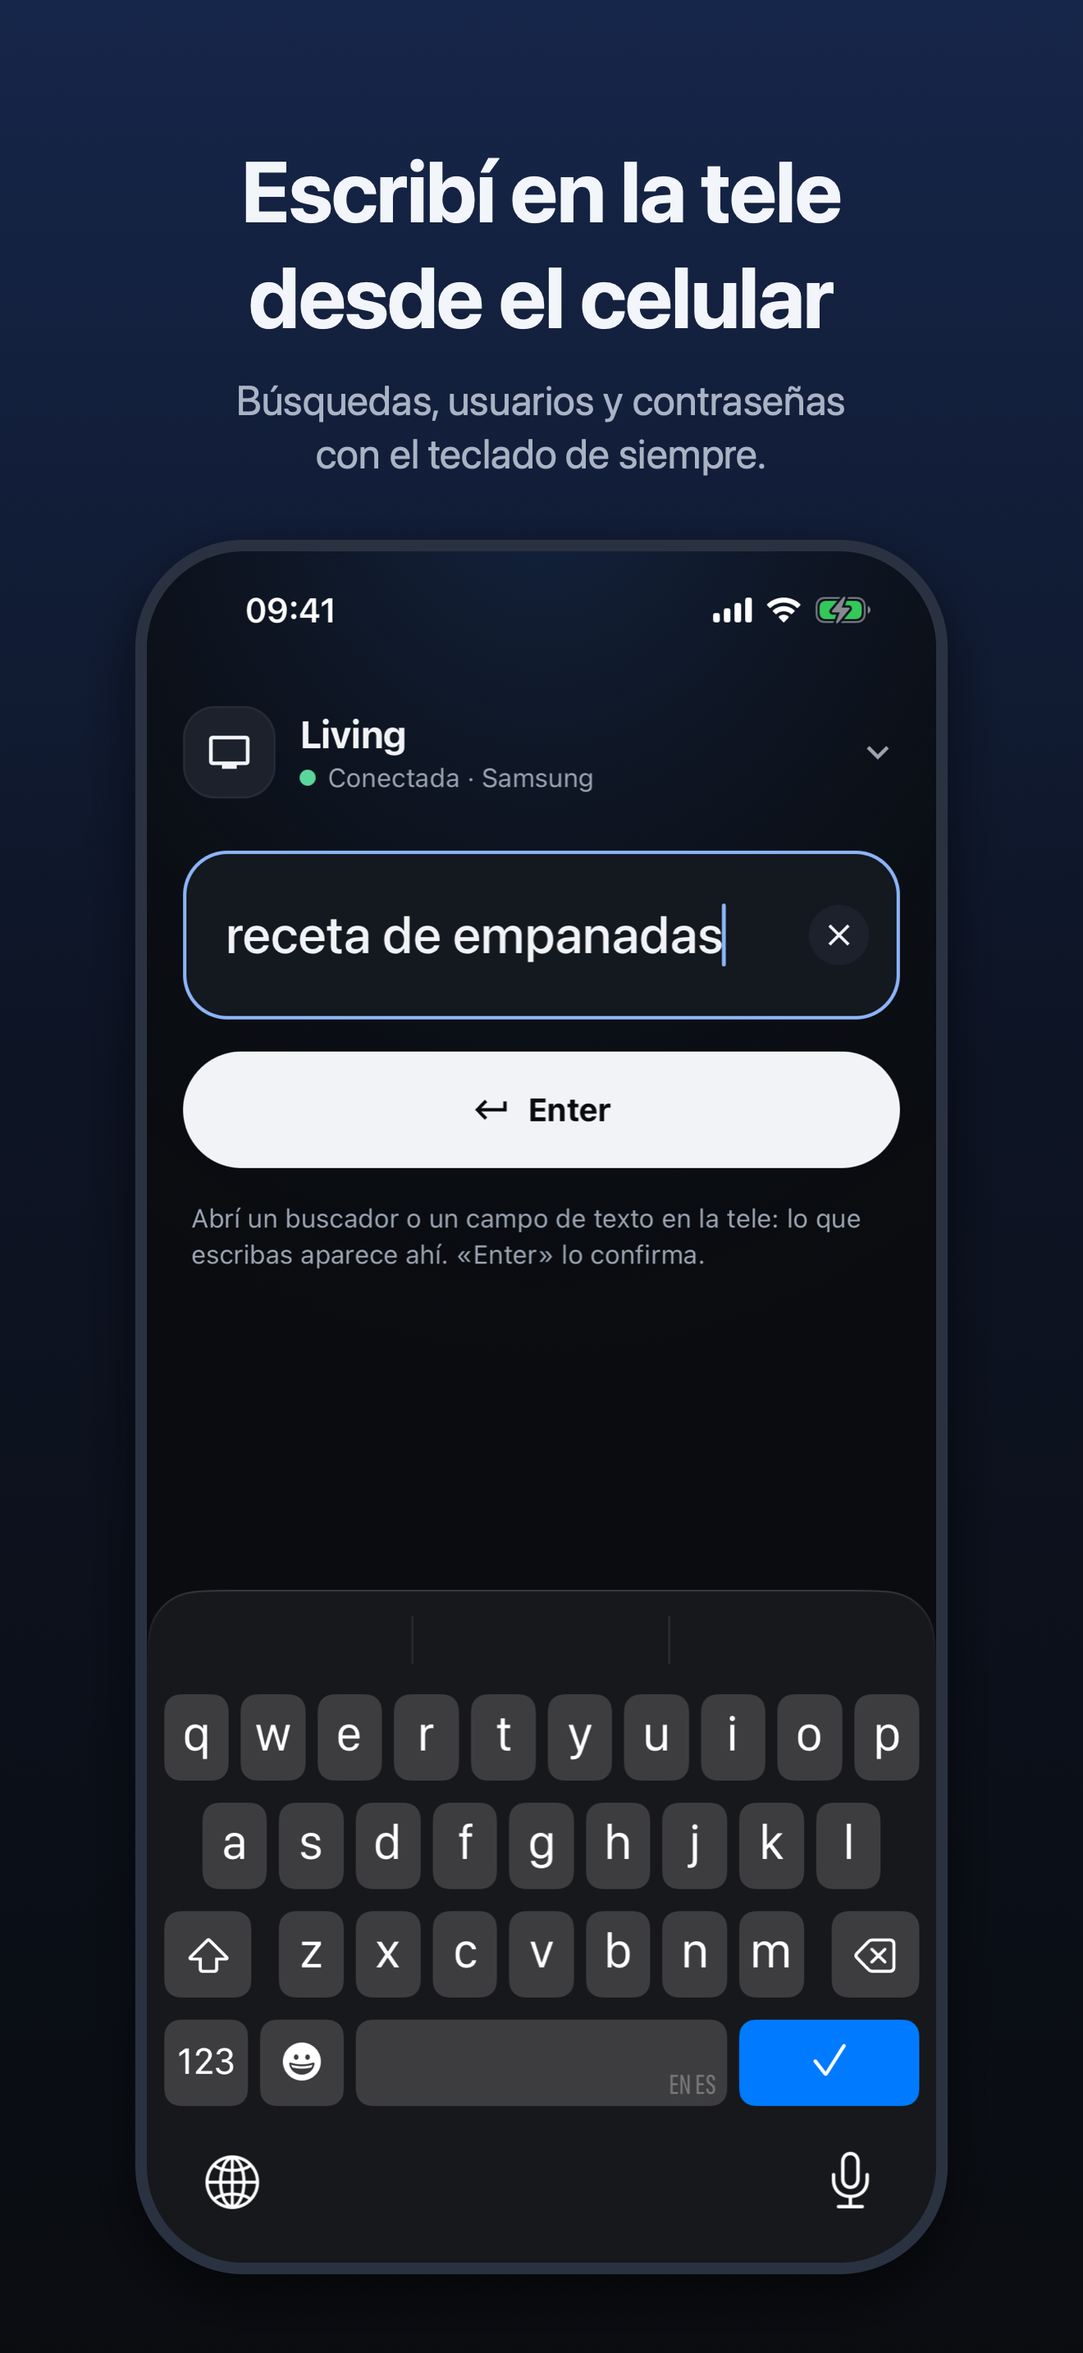
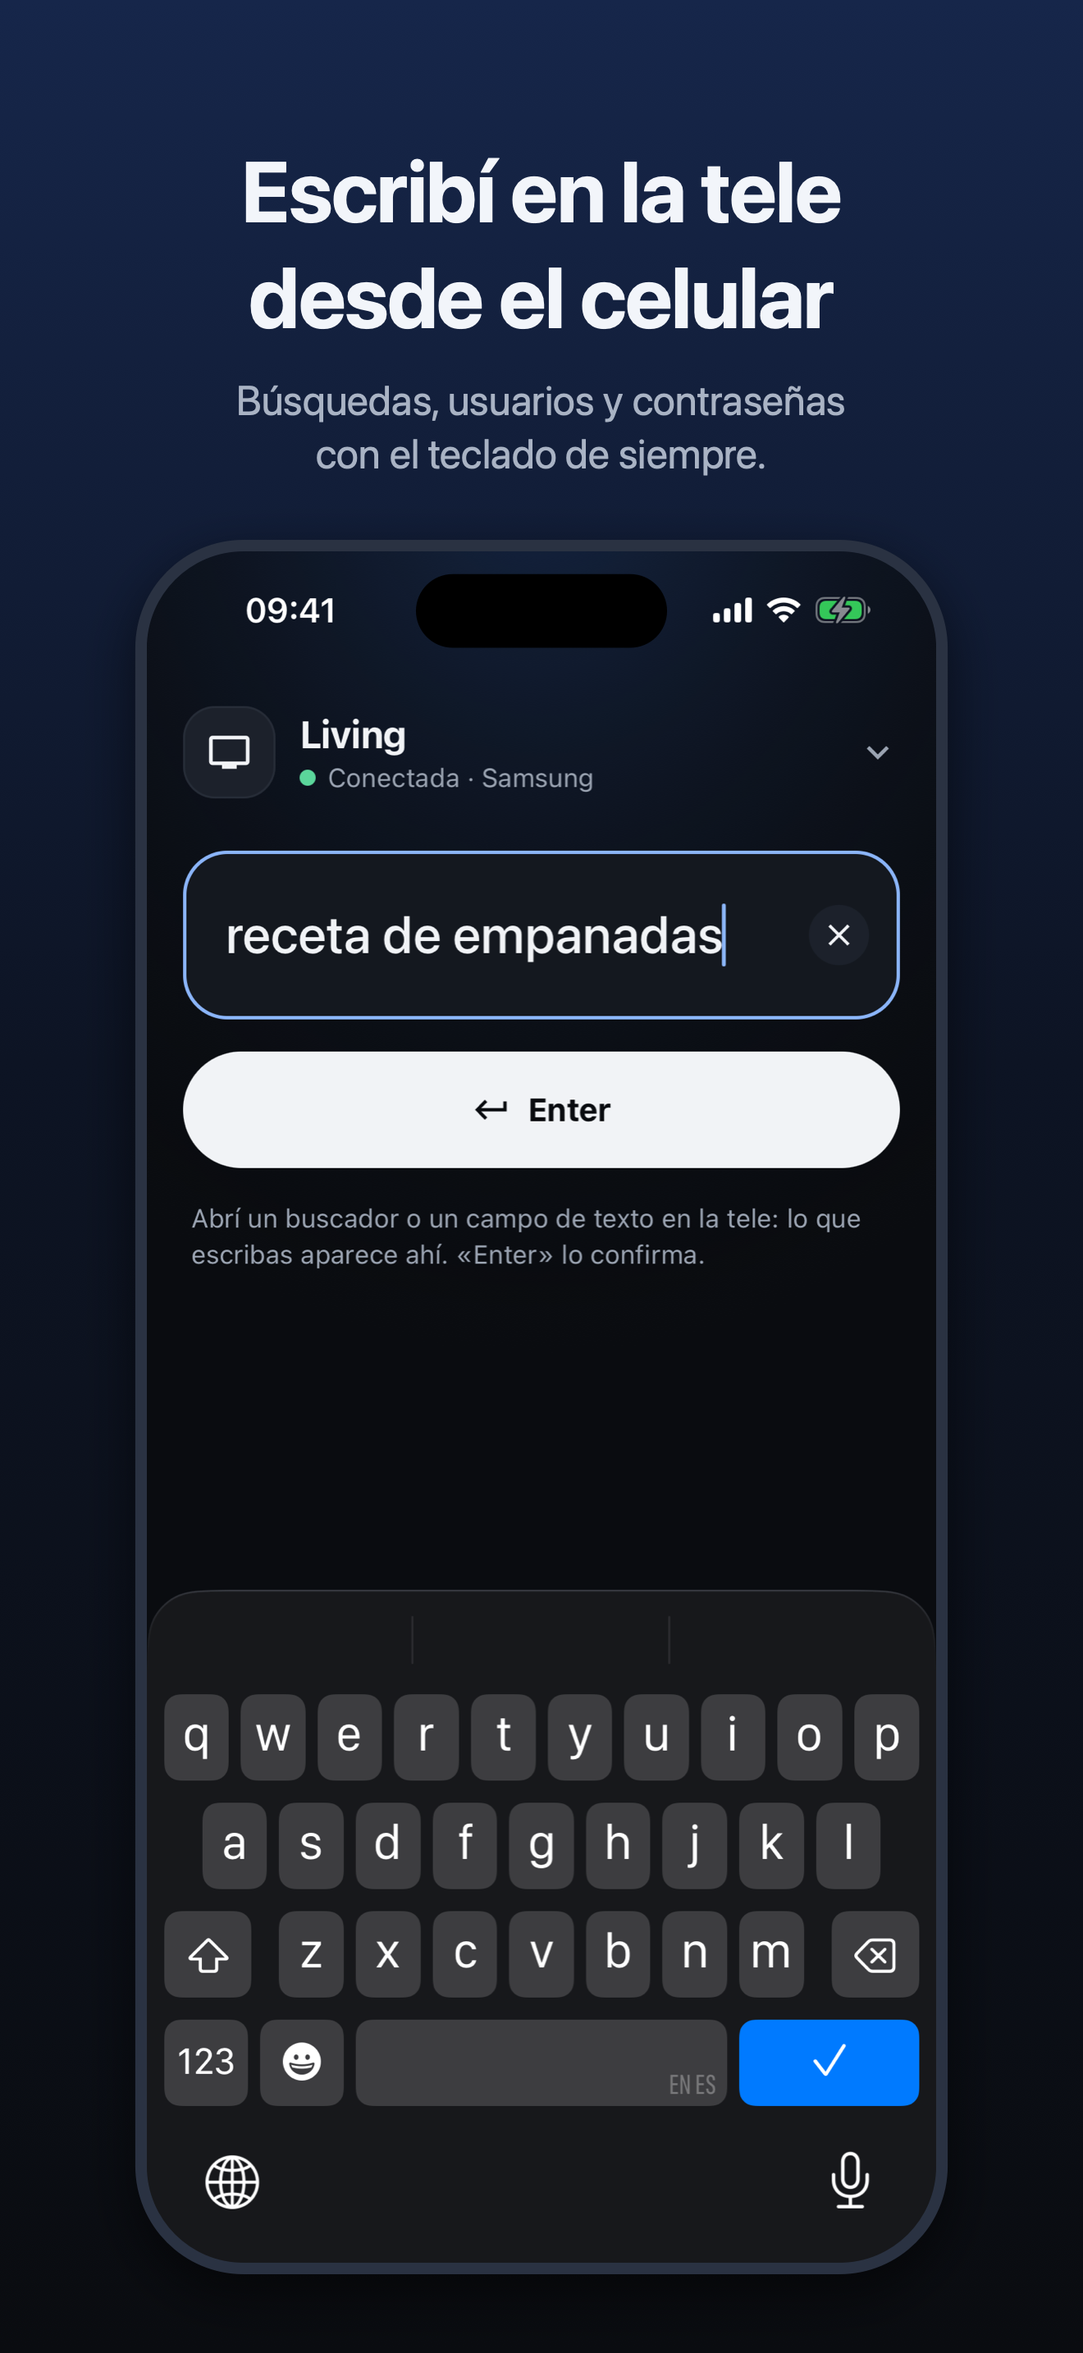
Teclado TV: lista para la revisión de Apple
- Primera pantalla: campo para escribir la IP de la tele (antes solo estaba en Avanzado, después de elegir una tele).
- Enlace a la política de privacidad dentro de la app.
- iPhone: aviso del permiso «Red local» con botón a Ajustes, y las apps del selector con iniciales en vez de logos.
- La hoja «Tu tele» sube con el teclado; el campo de IP se confirma con la tecla Ir.
- iOS en español (CFBundleLocalizations) y sin servicios Bonjour que no se usan.
- Ficha, notas para Apple, ayuda y privacidad corregidas para que coincidan con la app.

Changed region(s): [[0.3727, 0.2172, 0.6212, 0.2793]]

diff --git a/src/ui/TvSheet.tsx b/src/ui/TvSheet.tsx
@@ -1,18 +1,18 @@
 import { useState } from 'react';
-import { ActivityIndicator, Platform, Pressable, StyleSheet, Text, TextInput, View } from 'react-native';
+import { Pressable, StyleSheet, Text, View } from 'react-native';
 
 import type { TvState } from '../tv/TvController';
 import { tv } from '../tv/useTv';
 import { Icon } from './Icon';
+import { ManualAddress } from './ManualAddress';
+import { PrivacyLink } from './PrivacyLink';
 import { Sheet } from './Sheet';
 import { TvList } from './TvList';
-import { colors, radius, type } from './theme';
+import { colors } from './theme';
 
 /** "Tu tele": the TVs on the Wi-Fi, plus a manual address and re-pairing under "Avanzado". */
 export function TvSheet({ visible, state, onClose }: { visible: boolean; state: TvState; onClose: () => void }) {
   const [advanced, setAdvanced] = useState(false);
-  const [address, setAddress] = useState('');
-  const [checking, setChecking] = useState(false);
 
   return (
     <Sheet visible={visible} title="Tu tele" subtitle="Teles encontradas en tu Wi-Fi" onClose={onClose}>
@@ -32,33 +32,7 @@ export function TvSheet({ visible, state, onClose }: { visible: boolean; state: 
 
       {advanced ? (
         <View style={styles.advanced}>
-          <Text style={styles.label}>Conectar por dirección (si la tele no aparece)</Text>
-          <View style={styles.addressRow}>
-            <TextInput
-              style={styles.field}
-              value={address}
-              onChangeText={setAddress}
-              placeholder={state.host || '192.168.0.10'}
-              placeholderTextColor={colors.faint}
-              autoCapitalize="none"
-              autoCorrect={false}
-              keyboardType={Platform.OS === 'android' ? 'visible-password' : 'numbers-and-punctuation'}
-              accessibilityLabel="Dirección de la tele"
-            />
-            <Pressable
-              onPress={async () => {
-                if (!address.trim() || checking) return;
-                setChecking(true);
-                await tv.chooseAddress(address);
-                setChecking(false);
-                onClose();
-              }}
-              style={({ pressed }) => [styles.smallButton, pressed && { opacity: 0.8 }]}
-              accessibilityRole="button"
-            >
-              {checking ? <ActivityIndicator color={colors.onFocus} /> : <Text style={styles.smallButtonText}>Conectar</Text>}
-            </Pressable>
-          </View>
+          <ManualAddress state={state} label="Conectar por dirección (si la tele no aparece)" onDone={onClose} />
           {state.host ? (
             <Pressable
               onPress={() => {
@@ -71,6 +45,7 @@ export function TvSheet({ visible, state, onClose }: { visible: boolean; state: 
               <Text style={styles.linkText}>Volver a vincular con {state.tvName}</Text>
             </Pressable>
           ) : null}
+          <PrivacyLink />
         </View>
       ) : null}
     </Sheet>
@@ -81,26 +56,6 @@ const styles = StyleSheet.create({
   advancedToggle: { flexDirection: 'row', alignItems: 'center', gap: 4, alignSelf: 'flex-start' },
   advancedText: { color: colors.muted, fontSize: 15, fontWeight: '600' },
   advanced: { gap: 10 },
-  label: { ...type.small, color: colors.muted },
-  addressRow: { flexDirection: 'row', gap: 10 },
-  field: {
-    flex: 1,
-    backgroundColor: colors.surfaceRaised,
-    borderColor: colors.border,
-    borderWidth: 1,
-    borderRadius: radius.sm,
-    color: colors.text,
-    fontSize: 17,
-    paddingHorizontal: 14,
-    paddingVertical: 12,
-  },
-  smallButton: {
-    backgroundColor: colors.focus,
-    borderRadius: radius.sm,
-    paddingHorizontal: 16,
-    justifyContent: 'center',
-  },
-  smallButtonText: { color: colors.onFocus, fontSize: 15, fontWeight: '700' },
   link: { paddingVertical: 4 },
   linkText: { color: colors.accent, fontSize: 15, fontWeight: '600' },
 });

diff --git a/docs/privacidad.html b/docs/privacidad.html
@@ -21,10 +21,11 @@
   <h2>Qué se guarda en tu celular</h2>
   <p>Solo en tu celular, para no tener que configurar todo cada vez:</p>
   <ul>
-    <li>La tele elegida: su nombre, marca y dirección en tu red.</li>
-    <li>Los datos de vinculación que entrega la tele (por ejemplo, un código de acceso o un certificado del celular), para que no te pida vincular de nuevo.</li>
+    <li>La tele elegida: su nombre, marca, modelo, un identificador de la tele y su dirección en tu red.</li>
+    <li>Los datos de vinculación que entrega la tele (por ejemplo, un código de acceso), para que no te pida vincular de nuevo.</li>
+    <li>Para las teles Android TV / Google TV: un certificado propio del celular, creado en el celular, con el que la tele lo reconoce.</li>
   </ul>
-  <p>Estos datos no salen del celular salvo para conectarse a tu tele. Se borran al desinstalar la app.</p>
+  <p>Estos datos no salen del celular salvo para conectarse a tu tele. Para borrarlos, usá <em>Avanzado → Volver a vincular</em> o desinstalá la app. En iPhone, el certificado queda guardado en el llavero de iOS aunque desinstales la app, hasta que uses <em>Volver a vincular</em>.</p>
 
   <h2>Permisos</h2>
   <ul>
@@ -43,7 +44,7 @@
     <h2>Privacy policy (English)</h2>
     <p><strong>Teclado TV does not collect, store on servers, or share any personal data.</strong> It has no accounts, ads, analytics or tracking.</p>
     <p>The app connects directly to your TV over your home Wi-Fi (local network) to send it the text you type, and searches that network for TVs (Bonjour/mDNS, SSDP and connections to each brand's ports). This traffic goes from the phone to the TV only, never through our servers or any third party.</p>
-    <p>Stored only on your phone: the chosen TV (name, brand, local address) and the pairing data the TV issues (an access token or the phone's certificate), so you don't have to pair again. They are deleted when you uninstall the app.</p>
+    <p>Stored only on your phone: the chosen TV (name, brand, model, a TV identifier and its local address), the pairing data the TV issues (an access token), and for Android TV / Google TV a certificate created on the phone, so you don't have to pair again. To delete them use Avanzado → Volver a vincular, or uninstall the app; on iPhone the certificate stays in the iOS Keychain after uninstalling, until you use Volver a vincular.</p>
     <p>Permissions: local network (iPhone) and Wi-Fi/network state (Android), only to find and connect to the TV. No location, contacts, camera, microphone or photos.</p>
     <p>Contact: <a href="https://github.com/PolCarva/tele-teclado/issues">github.com/PolCarva/tele-teclado/issues</a>.</p>
   </section>

diff --git a/src/ui/ManualAddress.tsx b/src/ui/ManualAddress.tsx
@@ -1,0 +1,73 @@
+import { useState } from 'react';
+import { ActivityIndicator, Platform, Pressable, StyleSheet, Text, TextInput, View } from 'react-native';
+
+import type { TvState } from '../tv/TvController';
+import { tv } from '../tv/useTv';
+import { colors, radius, type } from './theme';
+
+/** "Connect by address": for a TV the search doesn't find. The app works out the brand. */
+export function ManualAddress({ state, label, onDone }: { state: TvState; label: string; onDone?: () => void }) {
+  const [address, setAddress] = useState('');
+  const [checking, setChecking] = useState(false);
+
+  const connect = async () => {
+    if (!address.trim() || checking) return;
+    setChecking(true);
+    await tv.chooseAddress(address);
+    setChecking(false);
+    onDone?.();
+  };
+
+  return (
+    <View style={styles.wrap}>
+      <Text style={styles.label}>{label}</Text>
+      <View style={styles.row}>
+        <TextInput
+          style={styles.field}
+          value={address}
+          onChangeText={setAddress}
+          onSubmitEditing={() => void connect()}
+          returnKeyType="go"
+          placeholder={state.host || '192.168.0.10'}
+          placeholderTextColor={colors.faint}
+          autoCapitalize="none"
+          autoCorrect={false}
+          keyboardType={Platform.OS === 'android' ? 'visible-password' : 'numbers-and-punctuation'}
+          accessibilityLabel="Dirección IP de la tele"
+        />
+        <Pressable
+          onPress={() => void connect()}
+          style={({ pressed }) => [styles.button, pressed && { opacity: 0.8 }]}
+          accessibilityRole="button"
+          accessibilityLabel="Conectar a esa dirección"
+        >
+          {checking ? <ActivityIndicator color={colors.onFocus} /> : <Text style={styles.buttonText}>Conectar</Text>}
+        </Pressable>
+      </View>
+    </View>
+  );
+}
+
+const styles = StyleSheet.create({
+  wrap: { gap: 10 },
+  label: { ...type.small, color: colors.muted },
+  row: { flexDirection: 'row', gap: 10 },
+  field: {
+    flex: 1,
+    backgroundColor: colors.surfaceRaised,
+    borderColor: colors.border,
+    borderWidth: 1,
+    borderRadius: radius.sm,
+    color: colors.text,
+    fontSize: 17,
+    paddingHorizontal: 14,
+    paddingVertical: 12,
+  },
+  button: {
+    backgroundColor: colors.focus,
+    borderRadius: radius.sm,
+    paddingHorizontal: 16,
+    justifyContent: 'center',
+  },
+  buttonText: { color: colors.onFocus, fontSize: 15, fontWeight: '700' },
+});

diff --git a/src/ui/TvList.tsx b/src/ui/TvList.tsx
@@ -1,4 +1,4 @@
-import { ActivityIndicator, Pressable, StyleSheet, Text, View } from 'react-native';
+import { ActivityIndicator, Linking, Platform, Pressable, StyleSheet, Text, View } from 'react-native';
 
 import { driverFor, type TvInfo } from '../brands';
 import type { TvState } from '../tv/TvController';
@@ -67,14 +67,23 @@ export function TvList({
           No encontré teles. Fijate que estén prendidas y conectadas a la misma Wi-Fi que el celular. Algunas
           teles tienen que tener activado el control desde el celular o la red (por ejemplo, Roku: «Control por apps
           móviles»; Sony: «Control remoto IP»).
+          {Platform.OS === 'ios' ? ' En iPhone, la app también necesita el permiso «Red local».' : ''}
         </Text>
       ) : null}
 
       {!scanning ? (
-        <Pressable onPress={onRescan} style={styles.rescan} accessibilityRole="button">
-          <Icon name="refresh" size={18} color={colors.accent} />
-          <Text style={styles.rescanText}>Buscar de nuevo</Text>
-        </Pressable>
+        <View style={styles.actions}>
+          <Pressable onPress={onRescan} style={styles.rescan} accessibilityRole="button">
+            <Icon name="refresh" size={18} color={colors.accent} />
+            <Text style={styles.rescanText}>Buscar de nuevo</Text>
+          </Pressable>
+          {Platform.OS === 'ios' && list.length === 0 ? (
+            // iOS asks for "Local Network" only once; if it was denied, the switch is in the app's Settings.
+            <Pressable onPress={() => void Linking.openSettings()} style={styles.rescan} accessibilityRole="button">
+              <Text style={styles.rescanText}>Abrir Ajustes</Text>
+            </Pressable>
+          ) : null}
+        </View>
       ) : null}
     </View>
   );
@@ -109,6 +118,7 @@ const styles = StyleSheet.create({
   badge: { fontSize: 13, fontWeight: '600' },
   status: { flexDirection: 'row', alignItems: 'center', gap: 10, paddingVertical: 6 },
   statusText: { ...type.small, color: colors.muted },
+  actions: { flexDirection: 'row', alignItems: 'center', gap: 24 },
   rescan: { flexDirection: 'row', alignItems: 'center', gap: 6, alignSelf: 'flex-start', paddingVertical: 6 },
   rescanText: { color: colors.accent, fontSize: 15, fontWeight: '600' },
 });

diff --git a/App.tsx b/App.tsx
@@ -7,7 +7,9 @@ import type { TvState } from './src/tv/TvController';
 import { tv, useTv } from './src/tv/useTv';
 import { Backdrop } from './src/ui/Backdrop';
 import { Icon } from './src/ui/Icon';
+import { ManualAddress } from './src/ui/ManualAddress';
 import { PairingView } from './src/ui/PairingView';
+import { PrivacyLink } from './src/ui/PrivacyLink';
 import { TvList } from './src/ui/TvList';
 import { TvSheet } from './src/ui/TvSheet';
 import { TypingView } from './src/ui/TypingView';
@@ -85,16 +87,23 @@ function Header({ state, onPress }: { state: TvState; onPress: () => void }) {
   );
 }
 
-/** First run: pick the TV from the ones on the Wi-Fi. */
+/** First run: pick the TV from the ones on the Wi-Fi, or type its address. */
 function ChooseTv({ state }: { state: TvState }) {
+  const found = state.scan.tvs.length > 0;
   return (
     <View style={styles.choose}>
       <Text style={styles.brand}>Teclado TV</Text>
       <View style={styles.chooseTitles}>
         <Text style={styles.title}>Elegí tu tele</Text>
-        <Text style={styles.subtitle}>Estas son las teles que encontré en tu Wi-Fi.</Text>
+        <Text style={styles.subtitle}>
+          {found
+            ? 'Estas son las teles que encontré en tu Wi-Fi.'
+            : 'Escribí en la tele con el teclado del celular. Busco tu tele en la Wi-Fi: Android TV / Google TV, Samsung, LG, Roku, Sony o Panasonic.'}
+        </Text>
       </View>
-      <TvList state={state} onChoose={(found) => tv.chooseTv(found)} onRescan={() => void tv.scanTvs({ deep: true })} />
+      <TvList state={state} onChoose={(chosen) => tv.chooseTv(chosen)} onRescan={() => void tv.scanTvs({ deep: true })} />
+      <ManualAddress state={state} label="¿No aparece? Escribí la dirección IP de la tele (la ves en su configuración de red)." />
+      <PrivacyLink />
     </View>
   );
 }

diff --git a/src/ui/AppIcon.tsx b/src/ui/AppIcon.tsx
@@ -1,4 +1,4 @@
-import { StyleSheet, Text, View } from 'react-native';
+import { Platform, StyleSheet, Text, View } from 'react-native';
 import Svg, { Path } from 'react-native-svg';
 
 import { ICON_PATHS } from '../tv/appIcons';
@@ -19,9 +19,22 @@ const ICONS: Record<TargetId, IconStyle> = {
   enter: { bg: '#2A303B', fg: '#F2F4F7', path: ENTER_PATH },
 };
 
-/** Rounded square with the app's logo, in the app's colors. */
+// The App Store build shows neutral initials instead of the apps' logos and colors: App Review
+// can flag third-party logos (guideline 5.2.1). The names next to them still say which app it is.
+const NEUTRAL = { bg: '#2A303B', fg: '#F2F4F7' };
+const INITIALS: Record<TargetId, IconStyle> = {
+  youtube: { ...NEUTRAL, text: 'Y' },
+  netflix: { ...NEUTRAL, text: 'N' },
+  prime: { ...NEUTRAL, text: 'P' },
+  disney: { ...NEUTRAL, text: 'D' },
+  max: { ...NEUTRAL, text: 'M' },
+  stremio: { ...NEUTRAL, text: 'S' },
+  enter: ICONS.enter,
+};
+
+/** Rounded square with the app's logo, in the app's colors (initials on iPhone). */
 export function AppIcon({ id, size = 36 }: { id: TargetId; size?: number }) {
-  const icon = ICONS[id];
+  const icon = (Platform.OS === 'ios' ? INITIALS : ICONS)[id];
   const glyph = size * (icon.scale ?? 0.6);
   return (
     <View

diff --git a/docs/index.html b/docs/index.html
@@ -34,7 +34,8 @@
 
   <h2>Si algo no anda</h2>
   <ul>
-    <li><strong>No encuentra la tele:</strong> fijate que esté prendida y en la misma Wi-Fi. Tocá el nombre de la tele arriba y <em>Buscar de nuevo</em>. En <em>Avanzado</em> podés poner la dirección IP de la tele a mano.</li>
+    <li><strong>No encuentra la tele:</strong> fijate que esté prendida y en la misma Wi-Fi, y tocá <em>Buscar de nuevo</em>. Si igual no aparece, escribí la dirección IP de la tele en el campo de abajo de la lista (la ves en la configuración de red de la tele). Si ya elegiste una tele, tocá su nombre arriba: en <em>Avanzado</em> podés poner otra dirección.</li>
+    <li><strong>iPhone:</strong> la app necesita el permiso <em>Red local</em>. Si lo negaste, activalo en Ajustes → Teclado TV.</li>
     <li><strong>No aparece el texto:</strong> tiene que haber un campo de texto abierto en la tele. En Samsung, LG y Sony, la tele tiene que mostrar su teclado.</li>
     <li><strong>Roku:</strong> activá en la tele Ajustes → Sistema → Ajustes avanzados del sistema → Control por apps móviles → <em>Activado</em>.</li>
     <li><strong>Sony:</strong> activá en la tele el control remoto por red (Red → Configuración de control remoto).</li>

diff --git a/src/ui/Sheet.tsx b/src/ui/Sheet.tsx
@@ -1,5 +1,5 @@
 import type { ReactNode } from 'react';
-import { Modal, Pressable, StyleSheet, Text, View } from 'react-native';
+import { KeyboardAvoidingView, Modal, Platform, Pressable, StyleSheet, Text, View } from 'react-native';
 import { useSafeAreaInsets } from 'react-native-safe-area-context';
 
 import { Icon } from './Icon';
@@ -22,7 +22,8 @@ export function Sheet({
   const insets = useSafeAreaInsets();
   return (
     <Modal visible={visible} transparent animationType="slide" onRequestClose={onClose} statusBarTranslucent>
-      <View style={styles.root}>
+      {/* The modal is its own window: the screen's keyboard handling doesn't reach it. */}
+      <KeyboardAvoidingView style={styles.root} behavior={Platform.OS === 'ios' ? 'padding' : undefined}>
         <Pressable style={StyleSheet.absoluteFill} onPress={onClose} accessibilityLabel="Cerrar" />
         <View style={[styles.sheet, { paddingBottom: insets.bottom + 20 }]}>
           <View style={styles.handle} />
@@ -37,7 +38,7 @@ export function Sheet({
           </View>
           {children}
         </View>
-      </View>
+      </KeyboardAvoidingView>
     </Modal>
   );
 }

diff --git a/src/ui/PrivacyLink.tsx b/src/ui/PrivacyLink.tsx
@@ -1,0 +1,19 @@
+import { Linking, Pressable, StyleSheet, Text } from 'react-native';
+
+import { colors } from './theme';
+
+export const PRIVACY_URL = 'https://polcarva.github.io/tele-teclado/privacidad.html';
+
+/** The privacy policy (Apple asks for it inside the app too). */
+export function PrivacyLink() {
+  return (
+    <Pressable onPress={() => void Linking.openURL(PRIVACY_URL)} style={styles.link} accessibilityRole="link" hitSlop={8}>
+      <Text style={styles.text}>Política de privacidad · la app no recopila datos</Text>
+    </Pressable>
+  );
+}
+
+const styles = StyleSheet.create({
+  link: { alignSelf: 'flex-start', paddingVertical: 4 },
+  text: { color: colors.faint, fontSize: 13 },
+});
